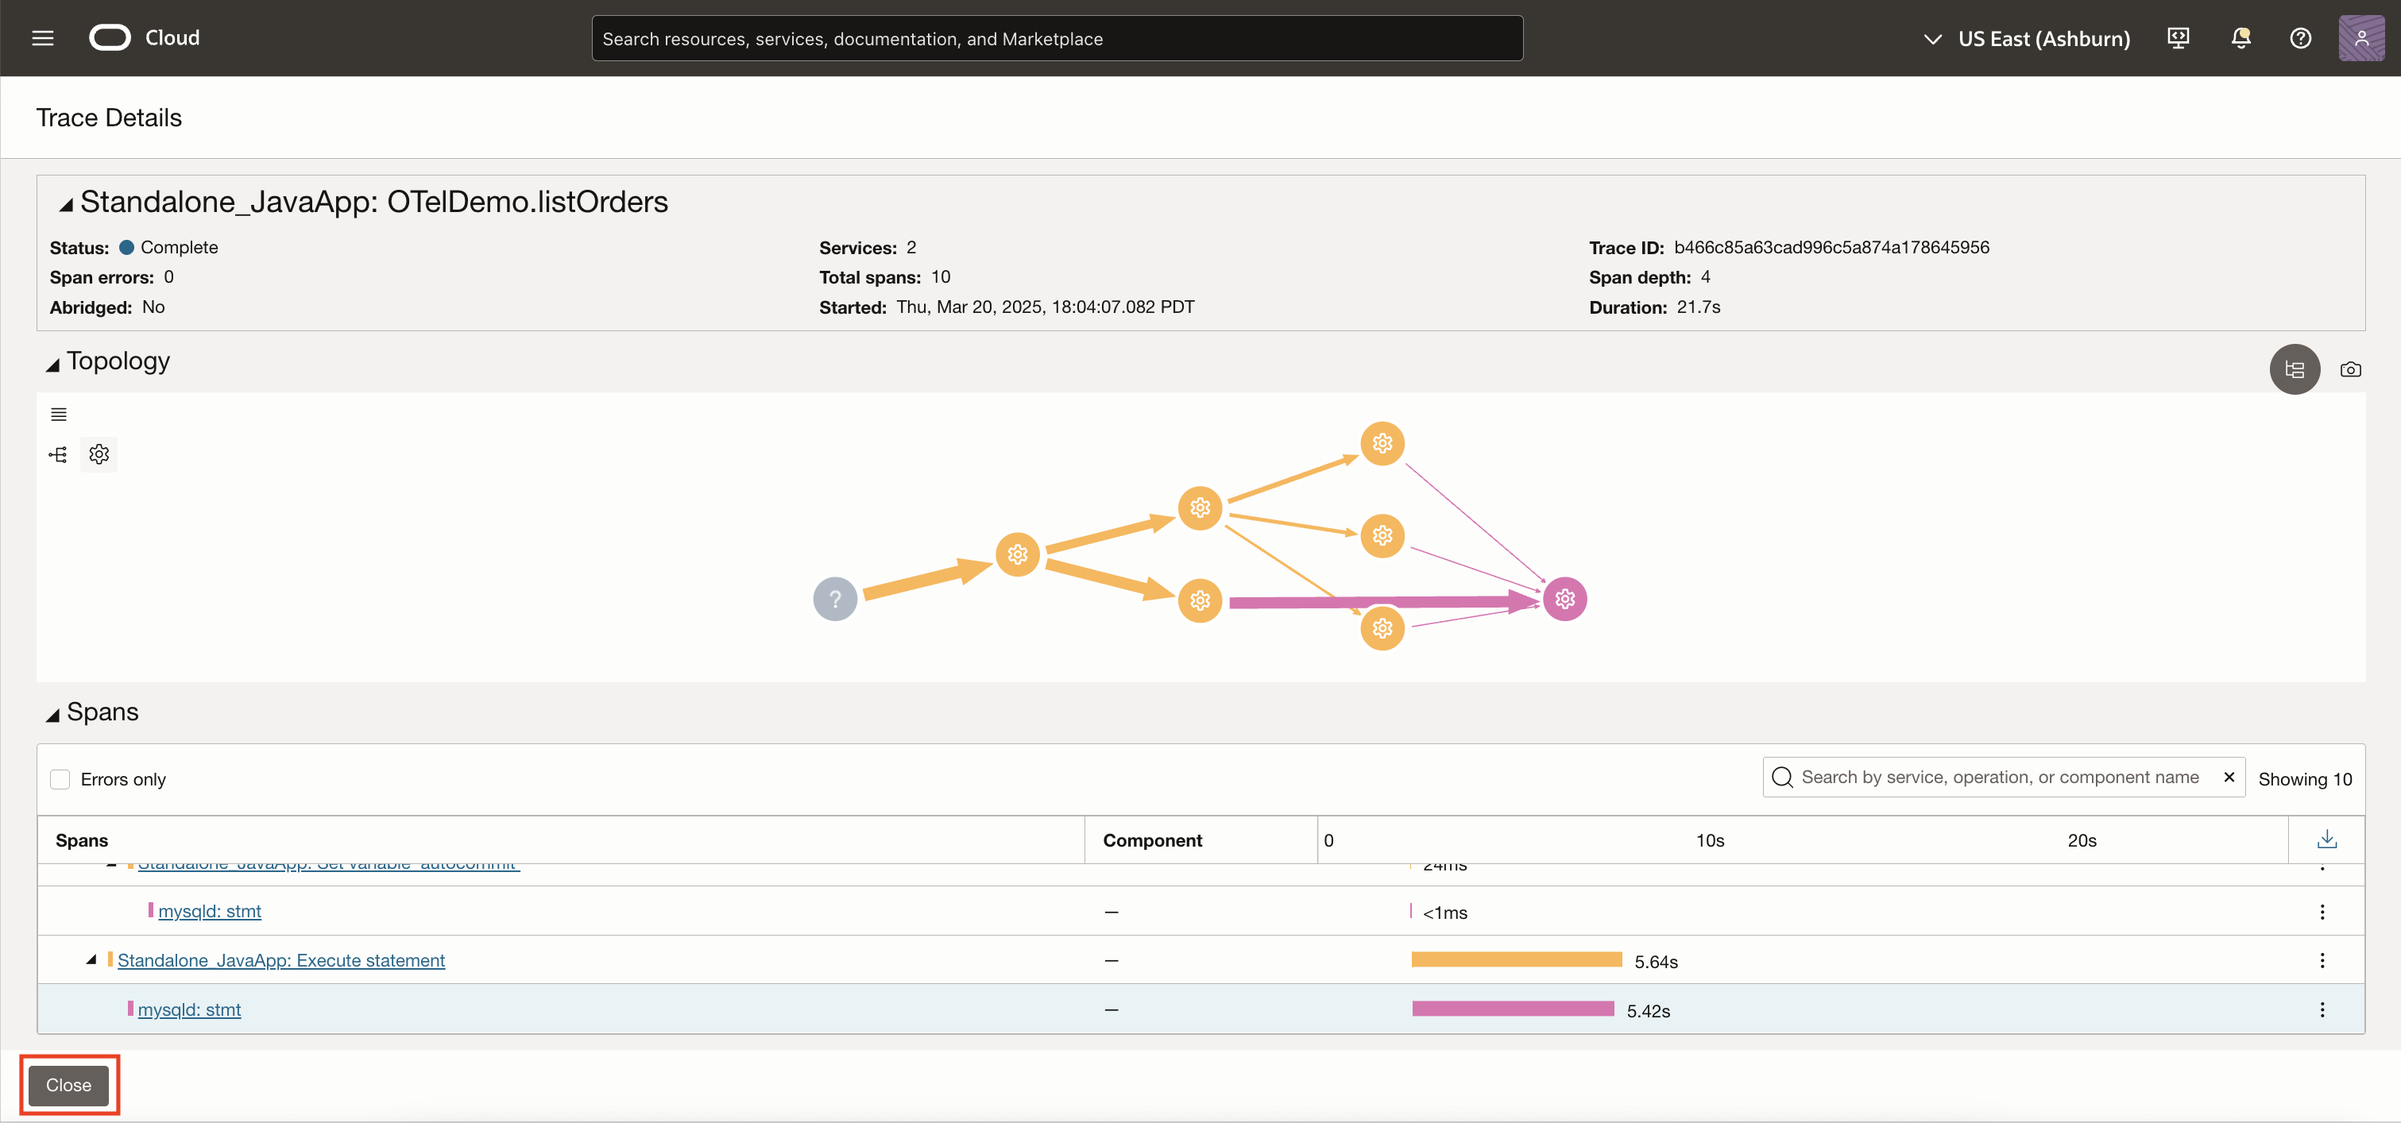
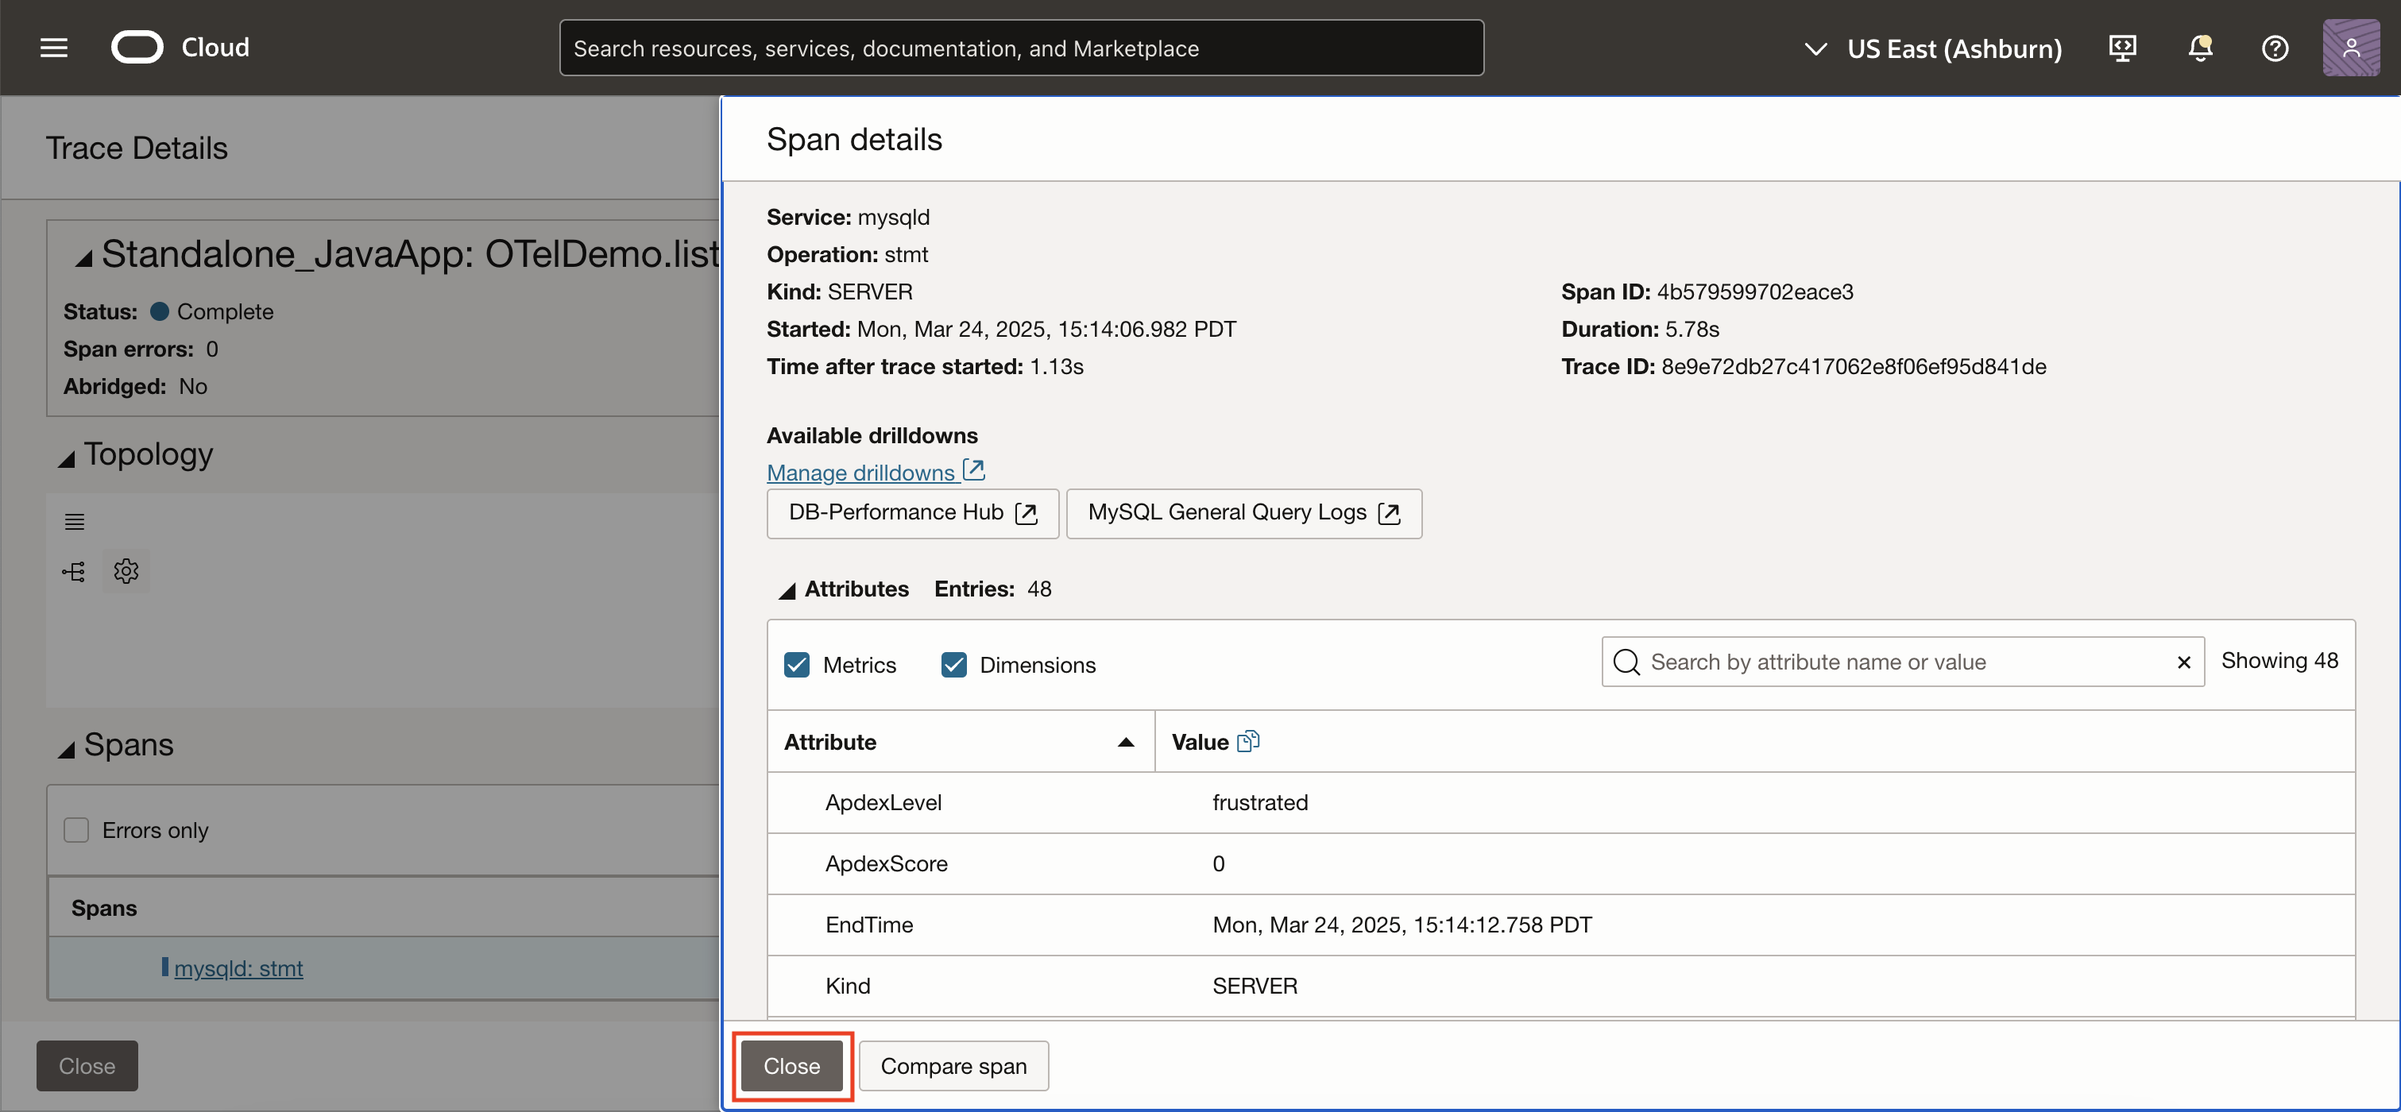
MySQL EE Feedback changes

diff --git a/mysql/oci-mysqlee-monitoring/e-lab-four-application-performance-monitoring/apm.md b/mysql/oci-mysqlee-monitoring/e-lab-four-application-performance-monitoring/apm.md
@@ -30,7 +30,7 @@ Estimated time: 20 minutes
 
      ![Database Management Overview](./images/open-traces.png " ")
 
-4. Select the **Otel-NoMySQLTraceEnabled** query where traces are not enabled.
+4. Select the **Otel-NoMySQLTraceEnabled** query for which the traces are not enabled in the MySQL DB.
 
      ![Database Management Overview](./images/no-trace-enabled.png " ")
 
@@ -42,7 +42,7 @@ Estimated time: 20 minutes
 
      ![Database Management Overview](./images/no-trace-overview.png " ")
 
-## Task 2: Limited Visibility and Analysis without traces enabled
+## Task 2: Limited Visibility and Analysis without MySQL Database traces enabled
 
 1. By default, traces are displayed in the order by the start time. Right mouse click on the **Duration column**, select Sort **Descending** to show the traces by duration in descending order. This will bring the slowest trace to the top of the list.
 
@@ -88,7 +88,7 @@ Estimated time: 20 minutes
 
      ![Database Management Overview](./images/span-details.png " ")
 
-9. The key challenges here is that there is no clear view of how queries are executed across services and becomes to correlate application and database performance issues.
+9. The key challenges here is that there is no clear view of how queries are executed across services and becomes difficult to correlate application and database performance issues.
 
 10. Click on Close to exit the **Span Details** window.
 
@@ -126,23 +126,21 @@ Estimated time: 20 minutes
 
      ![Database Management Overview](./images/otel-sort-descending-overview.png " ")
 
-## Task 4: Drill down to the trace Details
-
-1. The Trace detail page opens and displays the flow of action for the specific transaction in Topology and Waterfall views.
+7. The Trace detail page opens and displays the flow of action for the specific transaction in Topology and Waterfall views.
 
      ![Database Management Overview](./images/otel-trace-details.png " ")
 
      *Note: The operations in the topology are the spans that are seen in the waterfall view.*
 
-2. Examine the diagram by hovering the mouse over arrows which shows the connection details between the services. Notice that the thicker the arrow, the longer the connection time. So the diagram helps you to identify where in the services the slowness has occurred. Hover the mouse over the arrow between the last operation and the database. A floating window shows information about the slow SQL executed.
+8. Examine the diagram by hovering the mouse over arrows which shows the connection details between the services. Notice that the thicker the arrow, the longer the connection time. So the diagram helps you to identify where in the services the slowness has occurred. Hover the mouse over the arrow between the last operation and the database. A floating window shows information about the slow SQL executed.
 
      ![Database Management Overview](./images/otel-query-details.png " ")
 
-3. Click the triangle icon next to the Topology label, to **minimize** the topology region.
+9. Click the triangle icon next to the Topology label, to **minimize** the topology region.
 
      ![Database Management Overview](./images/otel-collapse.png " ")
 
-4. The waterfall view shows the spans invoked in the transaction. If the trace is spread across multiple services, spans in each service appear in a different color. Review the following.
+10. The waterfall view shows the spans invoked in the transaction. If the trace is spread across multiple services, spans in each service appear in a different color. Review the following.
 
      ![Database Management Overview](./images/otel-collapsed-view.png " ")
 
@@ -156,31 +154,39 @@ Estimated time: 20 minutes
 
      - Spans may wait for the next span to complete, or may not if it is an async call.
 
-5. Try to identify the slow span. For example, here, **Standalone\_JavaApp\_NoStandalone\_JavaApp: Execute statement > mysqld: stmt** is the bottleneck. Click the link or the bar of the span.
+11. Try to identify the slow span. For example, here, **Standalone\_JavaApp\_NoStandalone\_JavaApp: Execute statement > mysqld: stmt** is the bottleneck. Click the link or the bar of the span.
 
      ![Database Management Overview](./images/otel-db-trace-details.png " ")
 
-6. Span details page opens. On this page, span details are provided in the list of dimensions. Scroll down the list, and review the information of the span. These dimensions are provided out-of-the-box and can help you investigate a problem.
+12. Span details page opens. On this page, span details are provided in the list of dimensions. Scroll down the list, and review the information of the span. These dimensions are provided out-of-the-box and can help you investigate a problem.
 
      ![Database Management Overview](./images/otel-span-details.png " ")
 
-7. As scrolling down, locate the dimensions related to the database. In this case, you identified that the problem is a slow SQL. The dimensions provide the actual SQL, the time it took to execute and other additonal database metrics.
+13. As scrolling down, locate the dimensions related to the database. In this case, you identified that the problem is a slow SQL. The dimensions provide the actual SQL, the time it took to execute and other additonal database metrics.
 
      ![Database Management Overview](./images/otel-span-details-extended.png " ")
 
-8. The root cause here is that query executed a **JOIN** without using an **index**, leading to inefficient processing. Since **mysql.no\_index\_used = 1** and **mysql.no\_good\_index\_used =0**, it indicates that MySQL performed a full table scan instead of levering an index for optimization. Additionally mysql.select\_full\_join = 1 and mysql.select\_scan=1 confirm that a **full join** scan occured, meaning every row in the **Orders** and **Customers** tables had to be checked. This results in high rows examined 2,000,000 compared to rows sent 1,000,000, increasing CPU usage and execution time. The absence of an index significantly slowed down the query, making it inefficient.
+14. The root cause here is that query executed a **JOIN** without using an **index**, leading to inefficient processing. Since **mysql.no\_index\_used = 1** and **mysql.no\_good\_index\_used =0**, it indicates that MySQL performed a full table scan instead of levering an index for optimization. Additionally mysql.select\_full\_join = 1 and mysql.select\_scan=1 confirm that a **full join** scan occured, meaning every row in the **Orders** and **Customers** tables had to be checked. This results in high rows examined 2,000,000 compared to rows sent 1,000,000, increasing CPU usage and execution time. The absence of an index significantly slowed down the query, making it inefficient.
 
      ![Database Management Overview](./images/otel-span-details-extended-1.png " ")
 
-9. You can analyze trends, detect recurring performance issues, and ensure efficient query execution over time.
+15. You can analyze trends, detect recurring performance issues, and ensure efficient query execution over time.
 
-10. Click on Close to exit the **Span Details** window.
+16. You can also add a drill down feature in APM to quickly navigate to Logging Analytics or Database Management.
+
+     ![Database Management Overview](./images/span-navigation.png " ")
+
+     ![Database Management Overview](./images/span-dbm.png " ")
+
+     ![Database Management Overview](./images/span-la.png " ")
+
+17. Click on Close to exit the **Span Details** window.
 
      ![Database Management Overview](./images/otel-span-details-close.png " ")
 
-11. Click on Close to exit the **Trace Details** window.
+18. Click on Close to exit the **Trace Details** window.
 
-     ![Database Management Overview](./images/otel-span-details-close.png " ")
+     ![Database Management Overview](./images/otel-trace-details-close.png " ")
 
 ## Acknowledgements
 

diff --git a/mysql/oci-mysqlee-monitoring/b-lab-one-database-management/dbm.md b/mysql/oci-mysqlee-monitoring/b-lab-one-database-management/dbm.md
@@ -2,7 +2,7 @@
 
 In this lab, you will explore Database Management for External MySQL DB System. Database Management provides a single-pane-of-glass view of your cloud and on-premises databases in OCI, helping you monitor and detect issues efficiently.
 
-Below are some of the key tasks you will, categorized under database monitoring and management.
+Below are some of the key tasks you will perform which are categorized under database monitoring and management.
 
 Estimated time: 20 minutes
 
@@ -21,7 +21,13 @@ Estimated time: 20 minutes
 
      ![Database Management](./images/dbmgmt.png " ")
 
-2. The **MySQL databases** tile (on the **Overview** page) displays the total number of External MySQL DB systems and HeatWave MySQL Databases in the compartment and region for which Database Management is enabled.
+2. The **dbmgmt** compartment is selected by default in the Compartment field. Otherwise, set the **Compartment** to **dbmgmt** following the navigation.
+
+     ![Compartment](./images/navigation-compartment.png " ")
+
+     ![Compartment](./images/navigation.png " ")
+
+3. The **MySQL databases** tile (on the **Overview** page) displays the total number of External MySQL DB systems and HeatWave MySQL Databases in the compartment and region for which Database Management is enabled.
 
      ![Database Management Overview](./images/overview.png " ")
 
@@ -31,10 +37,7 @@ Estimated time: 20 minutes
 
      ![Compartment](./images/nav.png " ")
 
-2. The dbmgmt compartment is selected by default in the Compartment field. Set the **Compartment** to **dbmgmt** following the navigation -
-     ![Compartment](./images/navigation.png " ")
-
-3. The following tiles are available on the **Fleet Summary** page:
+2. The following tiles are available on the **Fleet Summary** page:
 
     - **Inventory**: Displays the number of MySQL Databases in the compartment.
     - **Monitoring Status**: Displays the availability status of the managed MySQL Databases in the compartment.
@@ -43,7 +46,7 @@ Estimated time: 20 minutes
 
      ![Fleet Summary](./images/fleet-summary.png " ")
 
-4. Below the tiles, the list of HeatWave and External MySQL DB systems for which Database Management is enabled is displayed along with the following information:
+3. Below the tiles, the list of HeatWave and External MySQL DB systems for which Database Management is enabled is displayed along with the following information:
     - **DB system name**: Name of the DB system.
     - **Monitoring status**: Monitoring status of the DB system.
     - **HeatWave**: HeatWave enablement status. Indicates whether a HeatWave cluster is attached to the HeatWave DB system. This information is only displayed for HeatWave DB systems.
@@ -124,11 +127,13 @@ Estimated time: 20 minutes
 
      ![Operation Stats](./images/recommended-alarms.png " ")
 
-3. In this case, I have already set up and configured alarms.
+3. In this case, we have already set up and configured alarms.
 
      ![Operation Stats](./images/oracle-alarms.png " ")
 
-4. Click the alarm to view the alarm details on the Alarm Definitions page in the Monitoring service. ?check (For Oracle-recommended alarms, the provider: DBM free-form tag is added by default during the creation process and is displayed in the Tags section.)
+4. Click the alarm to view the alarm details on the Alarm Definitions page in the Monitoring service.
+
+     *For Oracle-recommended alarms, the provider: DBM free-form tag is added by default during the creation process and is displayed in the Tags section.*
 
      ![Operation Stats](./images/click-view-alarm.png " ")
 

diff --git a/mysql/oci-mysqlee-monitoring/a-introduction/introduction.md b/mysql/oci-mysqlee-monitoring/a-introduction/introduction.md
@@ -2,15 +2,13 @@
 
 ## About this Workshop
 
- This workshop consists of four lab exercises organized to familiarize you with key capabilities of Oracle Cloud services, including Database Management, Ops Insights and Logging Analytics. We have simulated an External MySQL DB system, so you don't need to set up or use one from your cloud account.
-
-### Objectives
+ This workshop consists of four lab exercises organized to familiarize you with key capabilities of Oracle Cloud services, including Database Management, Ops Insights, Logging Analytics and Application Performance Management. We have simulated an External MySQL DB system, so you don't need to set up or use one from your cloud account.
 
 In this workshop, you will:
 
 * Use Oracle Cloud Infrastructure (OCI) Database Management to monitor the External MySQL DB systems
 * Use Ops Insights for capacity planning and Database Insights
-* Use Logging Analytics to collect and analyze application logs
+* Use Logging Analytics to collect and analyze database logs, such as the General Query log, Audit log, and others
 * Use APM Trace Explorer to view traces, spans, and span dimensions
 
 Estimated Time: 80 minutes
@@ -35,7 +33,7 @@ Oracle Cloud **Observability and Management Platform** provides full-stack visib
 
     Oracle Cloud Infrastructure (OCI) Logging Analytics is a cloud solution that lets you index, enrich, aggregate, explore, search, analyze, correlate, visualize and monitor log data from applications and system infrastructure-both in the cloud and on-premises. It can extract database instance records based on SQL queries provided in the log source configuration. In this lab, you'll learn how to use the Oracle Cloud Logging Analytics to enrich log data collected from the world's most popular open source database-MySQL.
 
-    *For more information on Logging Analytics and log Explorer please refer to Logging Analytics > **[Use Logging Analytics for External MySQL](https://docs.oracle.com/en-us/iaas/logging-analytics/home.htm)***
+    *For more information on Logging Analytics and log Explorer please refer to Logging Analytics > **[Use Logging Analytics for External MySQL](https://docs.oracle.com/en-us/iaas/logging-analytics/doc/oracle-defined-sources.html)***
 
 - Application Performance Management
 

diff --git a/mysql/oci-heatwave-monitoring/a-introduction/introduction.md b/mysql/oci-heatwave-monitoring/a-introduction/introduction.md
@@ -4,10 +4,11 @@
 
  This workshop consists of three lab exercises organized to familiarize you with key capabilities of Oracle Cloud services, including Database Management, Ops Insights and Logging Analytics. We have simulated HeatWave MySQL DB systems, so you don't need to set up or use one from your cloud account.
 
- You'll learn how to:
- * Use Oracle Cloud Infrastructure (OCI) Database Management to monitor the HeatWave MySQL DB systems
- * Use Ops Insights for Capacity Planning and Database Insights
- * Use Logging Analytics to collect and analyze application logs
+In this workshop, you will:
+
+* Use Oracle Cloud Infrastructure (OCI) Database Management to monitor the HeatWave MySQL DB systems
+* Use Ops Insights for Capacity Planning and Database Insights
+* Use Logging Analytics to collect and analyze database logs, such as the General Query log, Audit log, and others
 
 Estimated Time: 60 minutes
 
@@ -35,7 +36,7 @@ Oracle Cloud **Observability and Management Platform** provides full-stack visib
 
     Oracle Cloud Infrastructure (OCI) Logging Analytics is a cloud solution that lets you index, enrich, aggregate, explore, search, analyze, correlate, visualize and monitor log data from applications and system infrastructure-both in the cloud and on-premises. It can extract database instance records based on SQL queries provided in the log source configuration. In this lab, you'll learn how to use the Oracle Cloud Logging Analytics to enrich log data collected from the world's most popular open source database-MySQL.
 
-    *For more information on Logging Analytics and log Explorer please refer to Logging Analytics > **[Use Logging Analytics for HeatWave MySQL](https://docs.oracle.com/en-us/iaas/logging-analytics/home.htm)***
+    *For more information on Logging Analytics and log Explorer please refer to Logging Analytics > **[Use Logging Analytics for HeatWave MySQL](https://docs.oracle.com/en-us/iaas/logging-analytics/doc/oracle-defined-sources.html)***
 
 
 ### Objectives

diff --git a/mysql/oci-mysqlee-monitoring/d-lab-three-logging-analytics/logginganalytics.md b/mysql/oci-mysqlee-monitoring/d-lab-three-logging-analytics/logginganalytics.md
@@ -1,6 +1,6 @@
 ## Introduction
 
-In this lab, you will learn how to use the Oracle Cloud Logging Analytics service to enrich the log data collected based on the SQL query provided in the log configuration from the world's most popular open source database-MySQL.
+In this lab, you will learn how to use the Oracle Cloud Logging Analytics service to collect and analyze log data directly from the MySQL log files such as the General Query log and Error log to gain deeper insights into database activity.
 
 Estimated Lab Time: 20 minutes
 
@@ -21,7 +21,7 @@ Estimated Lab Time: 20 minutes
 
      ![Database Management](./images/home-view.png " ")
 
-3. From the Resources Menu, click on **Sources** to navigate to the Source that is already created for visualization purposes.
+3. From the Resources Menu, click on **Sources** to navigate to the Source that we have already created for visualization purposes.
 
       ![Database Management](./images/resources.png " ")
 
@@ -45,7 +45,7 @@ Estimated Lab Time: 20 minutes
 
       - **Main panel** - where the visualization outputs appear above the results of the query.
 
-*Note: You are working with live logs so it may take a few minutes for logs to show up in your Log Explorer view. Click the **Run** button to re-run the query.*
+   *Note: You are working with live logs so it may take a few minutes for logs to show up in your Log Explorer view. Click the **Run** button to re-run the query.*
 
 ## Task 2: Visualize Data Using Charts and Controls
 
